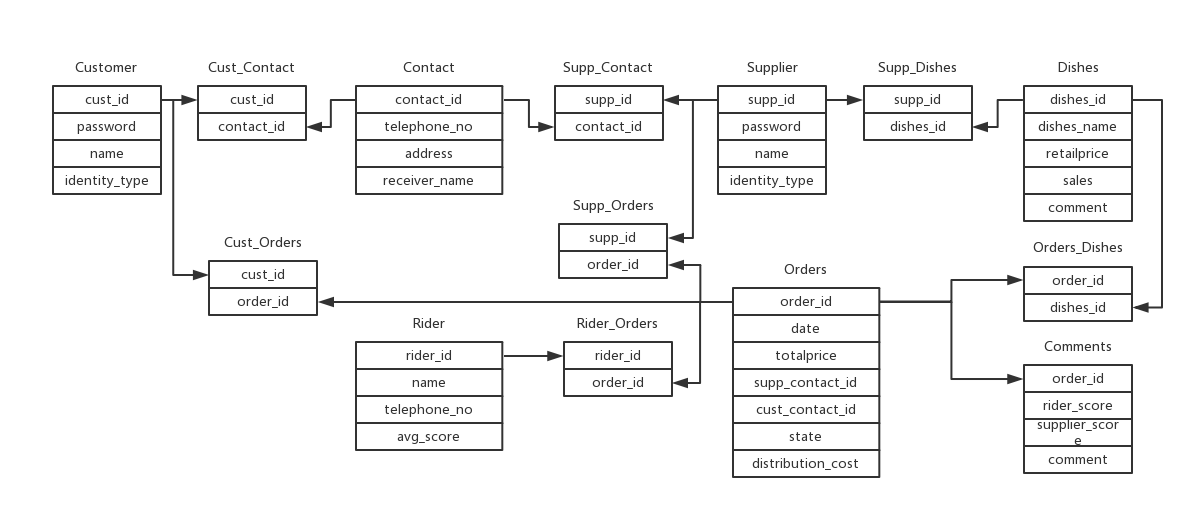
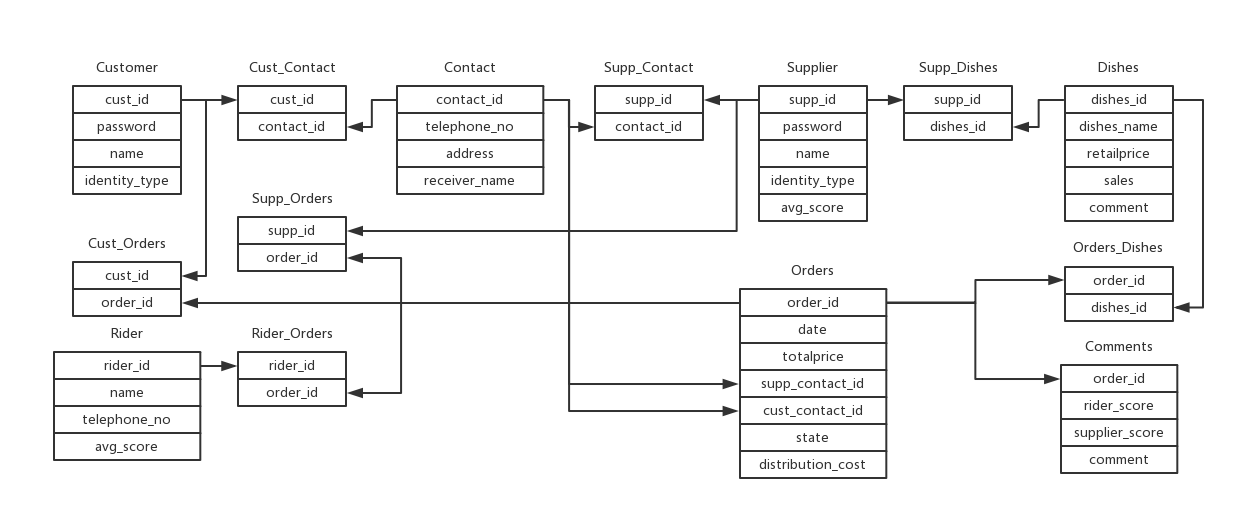
用户自定义完整性
（1）修正了外卖模式图；
（2）在Readme列举了一些用户自定义完整性(可能还需要完善）；
（3）在sql查询里面将Customer和Supplier的avg_score属性类型修改为numeric(2, 1)，并对identity_type增加了default约束；
（4）触发器的实现我没写，因为我之前写的代码逻辑里面需要声明很多临时变量，据说可以不用这样，我想看看大家是怎么操作的。

Changed region(s): [[0.031, 0.1179, 0.9916, 0.943]]

diff --git a/README.md b/README.md
@@ -20,7 +20,7 @@
   - 用户ID(varchar(20))，密码（加密）(int)，用户名(nvarchar(20))，身份属性(boolean)。
 - 商家：
 
-  - 商家ID，密码（加密），商家名，身份属性，平均分数(int)。 
+  - 商家ID，密码（加密），商家名，身份属性，平均分数(numeric(2, 1))。 
 - 订单：
 
   - 订单ID(varchar(16))，时间(date)，金额(real)，商家联系表ID(varchar(16))，用户联系表ID(varchar(16))，订单状态(varchar(10))，配送费(real)。
@@ -31,7 +31,7 @@
 
   - 联系表ID(varchar(16))，电话(char(11))，地址(nvarchar(50))，收件人名字(nvarchar(20))。
 - 骑手：
-  - 骑手ID(varchar(16))，骑手名字(nvarchar(20))，电话(char(11))，平均分数(int)。
+  - 骑手ID(varchar(16))，骑手名字(nvarchar(20))，电话(char(11))，平均分数(numeric(2,  1))。
 - 评价：
   - 订单ID（外码）(varchar(16))，骑手分数(int)，商家分数(int)，comment(nvarchar(50))。
 
@@ -60,3 +60,23 @@ E-R图：
 模式图：
 
 ![模式图](image/美团外卖模式图.png)
+
+---
+
+用户自定义完整性：
+
+* 属性约束
+  * Customer.identity_type = 1
+  * Supplier.identity_type = 0
+
+* 触发器
+
+  * TRI_Comment_Score_INSERT
+
+    Supplier.avg_score = SUM(Comments.supplier_score) / COUNT(Comments.order_id)
+
+    Rider.avg_score = SUM(Comments.rider_score) / COUNT(Comments.order_id)
+
+  * TRI_Orders_Dishes_INSERT
+
+    Orders.totalprice = SUM(Dishes.retailprice) + Orders.distribution_cost
